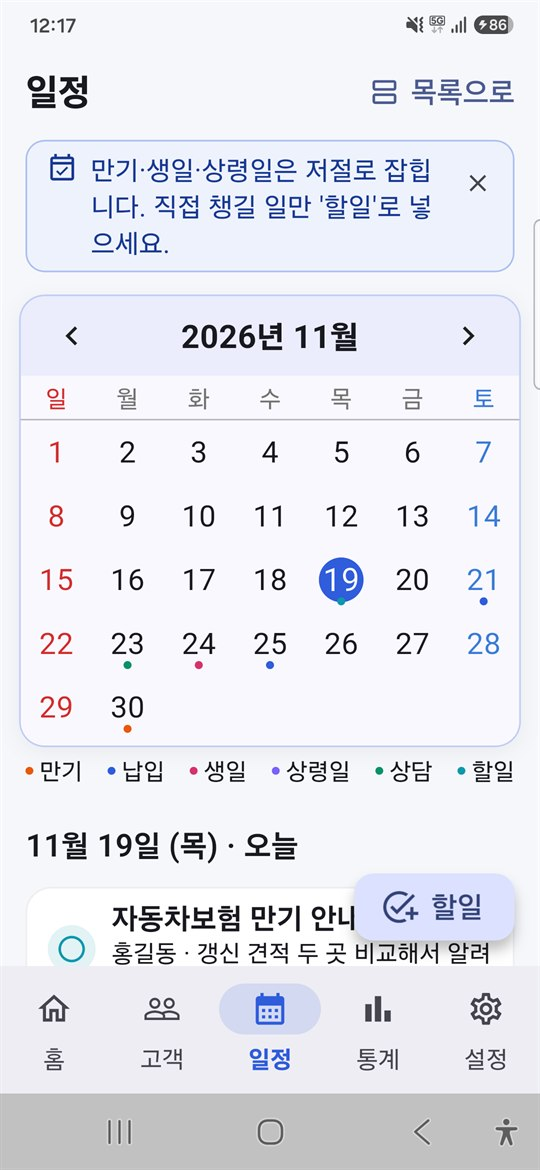
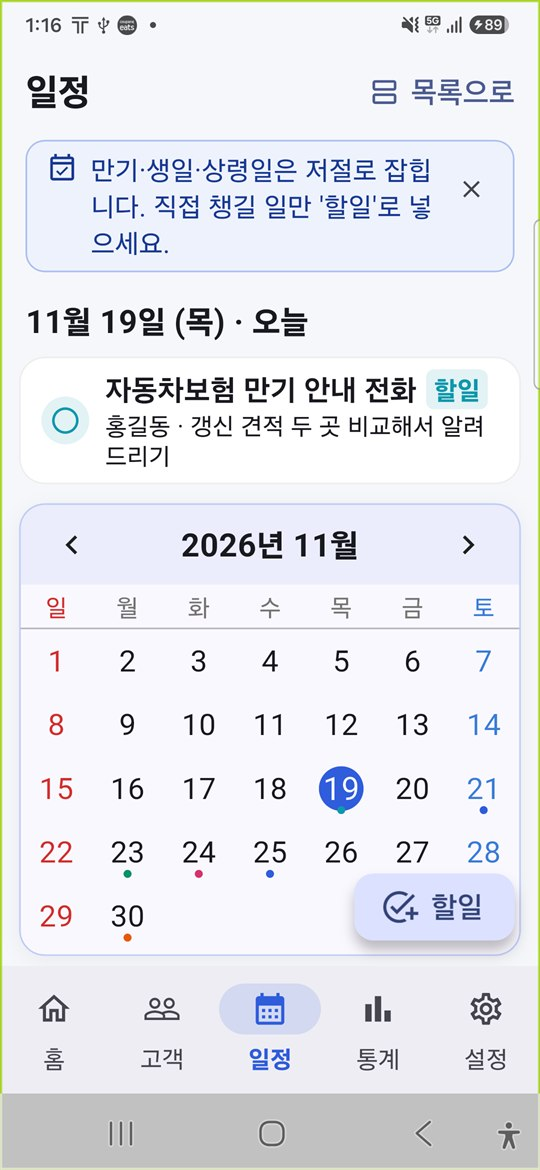
사용설명서를 1.1.19 화면에 맞춘다
- 오늘 브리핑 → 홈 '오늘 할 일' 줄 펼쳐 보기
- 단체문자 화면 → 고객 탭 빠른 칩 + '이 N명에게 문자'
- 카톡 보내기, 통화 후 메모 창, 문구 여덟 개, 보장 시작 일정
- 설정 이름 '데이터 관리' → '백업 · 복원 · 엑셀', 오늘 일정은 달력 위

diff --git a/manual/index.html b/manual/index.html
@@ -286,7 +286,7 @@ td.k { white-space: normal; }   /* 안 접히면 표가 옆으로 넘친다 */
 <h2>목차</h2>
 <ol>
 <li><a href="#sec1"><div><b>처음 시작하기</b><span>화면 구성 · 내 이름 넣기 · 시작하기 안내</span></div></a></li>
-<li><a href="#sec2"><div><b>홈</b><span>오늘 할 일 · 오늘 브리핑</span></div></a></li>
+<li><a href="#sec2"><div><b>홈</b><span>오늘 할 일 · 고객 펼쳐 보기</span></div></a></li>
 <li><a href="#sec3"><div><b>고객 등록</b><span>한 명씩 · 명함·문자로 · 엑셀로 한꺼번에</span></div></a></li>
 <li><a href="#sec4"><div><b>고객 찾기와 고객 화면</b><span>검색 · 조건 검색 · 가족 · 서류</span></div></a></li>
 <li><a href="#sec5"><div><b>계약</b><span>계약 등록 · 증권 사진 · 갱신</span></div></a></li>
@@ -347,7 +347,7 @@ td.k { white-space: normal; }   /* 안 접히면 표가 옆으로 넘친다 */
         직접 넣은 고객은 지워지지 않습니다.</p>
 
       <h3>이 설명서 다시 열기</h3>
-      <p><b>설정 &gt; 도움말 &gt; 사용법</b>, 또는 홈 &lsquo;시작하기&rsquo; 맨 아래
+      <p><b>설정 맨 위 사용법</b>, 또는 홈 &lsquo;시작하기&rsquo; 맨 아래
         <span class="chip">사용법 자세히 보기</span>를 누르세요.
         인터넷이 없어도 열립니다.</p>
       <p>설명서 오른쪽 위 <span class="chip">보내기</span>를 누르면
@@ -387,18 +387,17 @@ td.k { white-space: normal; }   /* 안 접히면 표가 옆으로 넘친다 */
   </div>
 
   <div class="feat">
-    <figure class="shot"><img src="shots/02-briefing.jpg" alt="오늘 브리핑">
-      <figcaption>오늘 브리핑</figcaption></figure>
+    <figure class="shot"><img src="shots/02-home-expand.jpg" alt="오늘 할 일 펼쳐 보기">
+      <figcaption>오늘 할 일 · 고객 펼쳐 보기</figcaption></figure>
     <div>
-      <h3>오늘 브리핑</h3>
-      <p>홈 오른쪽 위 <span class="chip">브리핑</span>을 누르세요.
-        오늘 연락할 고객을 <b>한 사람당 카드 한 장</b>으로 정리해 줍니다.</p>
+      <h3>전화 걸기 전에 한 번 펼쳐 보기</h3>
+      <p>&lsquo;오늘 할 일&rsquo; 줄 오른쪽 <b>&or;</b>를 누르면 그 자리에서 고객 요약이 펼쳐집니다.</p>
       <ul class="dot">
-        <li>왜 연락하는지 (납입·만기·생일·상담)</li>
-        <li>지금 내는 보험료와 마지막 상담 내용</li>
+        <li>유지 중인 계약과 월 보험료</li>
+        <li>마지막 상담 내용</li>
         <li>부족한 보장 — 권유할 거리</li>
       </ul>
-      <div class="tip">전화 돌리기 전에 이 화면만 훑으면 무슨 말을 할지 정리됩니다.</div>
+      <div class="tip">전화 돌리기 전에 펼쳐 훑으면 무슨 말을 할지 정리됩니다.</div>
       <p>계약이 있으면 홈 아래쪽에 <span class="chip">보험사별 장부</span> 입구가 생깁니다(9장).</p>
     </div>
   </div>
@@ -450,7 +449,7 @@ td.k { white-space: normal; }   /* 안 접히면 표가 옆으로 넘친다 */
     <div>
       <h3>쓰던 명단을 엑셀로 한꺼번에</h3>
       <p>고객이 많으면 한 명씩 치지 마세요. 홈 &lsquo;고객 등록하기&rsquo;의
-        <b>쓰던 고객 명단이 있어요 (엑셀)</b>, 또는 <b>설정 &gt; 데이터 관리 &gt;
+        <b>쓰던 고객 명단이 있어요 (엑셀)</b>, 또는 <b>설정 &gt; 백업 · 복원 · 엑셀 &gt;
         기존 고객 자료 반영하기</b>를 누르면 순서 안내가 나옵니다.</p>
       <ol class="steps">
         <li><span class="chip">양식 받기</span>로 빈 엑셀 양식을 받아 PC로 보냅니다.</li>
@@ -510,7 +509,7 @@ td.k { white-space: normal; }   /* 안 접히면 표가 옆으로 넘친다 */
       <ul class="dot">
         <li><b>영업 단계</b> — 가망 · 상담중 · 청약중 · 계약 · 보류.
           가망·상담중·청약중인 고객에게 계약을 넣으면 저절로 &lsquo;계약&rsquo;이 됩니다</li>
-        <li><b>수신동의</b> — 거부한 고객은 단체 문자에서 빠집니다</li>
+        <li><b>수신동의</b> — 거부한 고객은 여러 명에게 보내는 문자에서 빠집니다</li>
       </ul>
 
       <h3>가족 연결</h3>
@@ -635,26 +634,30 @@ td.k { white-space: normal; }   /* 안 접히면 표가 옆으로 넘친다 */
         <li><b>문자 앱으로 보내기</b>를 누르면 휴대폰 문자 앱이 열립니다. 거기서 <b>전송</b>을 누르세요.</li>
       </ol>
       <div class="warn">앱이 직접 보내지 않습니다. <b>문자 앱에서 전송</b>을 눌러야 나갑니다.</div>
-      <p>문자나 전화를 하고 돌아오면 <b>&lsquo;기록을 남길까요?&rsquo;</b>를 묻습니다.
-        남기면 상담 기록에 들어갑니다.</p>
+      <p>문자 화면 아래 <b>카톡으로 보내기</b>를 누르면 같은 내용을 카카오톡으로 보낼 수 있습니다.</p>
+      <p>문자·카톡을 보내고 돌아오면 <b>&lsquo;기록을 남길까요?&rsquo;</b>를 묻습니다.
+        전화를 끊고 돌아오면 <b>&lsquo;통화하셨나요?&rsquo;</b> 창이 떠서 통화 메모와
+        다음 연락 날짜를 바로 적을 수 있습니다. 남기면 상담 기록에 들어갑니다.</p>
     </div>
   </div>
 
   <div class="feat">
-    <figure class="shot"><img src="shots/21-bulk-sms.jpg" alt="단체 문자">
-      <figcaption>단체 문자</figcaption></figure>
+    <figure class="shot"><img src="shots/21-quick-sms.jpg" alt="여러 명에게 문자">
+      <figcaption>고객 탭 · 이번 달 생일</figcaption></figure>
     <div>
-      <h3>여러 명에게 (단체 문자)</h3>
+      <h3>여러 명에게</h3>
       <ol class="steps">
-        <li>고객 탭 맨 위 <span class="chip">단체문자</span>를 누릅니다.</li>
-        <li>기간(이번 주 · 이번 달)과 유형(만기·납입·생일·상령일·상담)을 고릅니다.</li>
-        <li>대상이 나오면 <b>문자 작성</b>을 누릅니다.</li>
+        <li>고객 탭 위의 <span class="chip">이번 주 생일</span> <span class="chip">이번 달 생일</span>
+          <span class="chip">이번 달 만기</span> <span class="chip">이번 달 납입</span> 중 하나를 누릅니다.</li>
+        <li>명단이 걸러지면 <b>이 N명에게 문자</b>를 누릅니다. 맞는 문구(생일 축하·만기 안내·납입 안내)가 채워져 열립니다.</li>
+        <li><b>문자 앱으로 보내기</b>를 누르고 문자 앱에서 <b>전송</b>을 누르세요.</li>
       </ol>
+      <p>다른 조건(영업 단계·보험사·연령대 등)은 <span class="chip">조건</span> &gt; <b>조건 더 보기</b>에서 고릅니다.</p>
       <p>전화번호가 없는 고객과 수신거부 고객은 빠집니다. 만기·납입 안내처럼 계약에 따른
         안내라면 문자 화면에서 수신거부 고객도 넣을 수 있습니다(광고성 문자는 안 됩니다).</p>
 
       <h3>문구를 내 말투로</h3>
-      <p><b>설정 &gt; 문자 문구 관리</b>에서 기본 문구 여섯 개를 고칠 수 있습니다.
+      <p><b>설정 &gt; 문자 문구 관리</b>에서 기본 문구 여덟 개를 고칠 수 있습니다.
         <b>기본값</b>을 누르면 원래대로 돌아갑니다.</p>
     </div>
   </div>
@@ -677,8 +680,9 @@ td.k { white-space: normal; }   /* 안 접히면 표가 옆으로 넘친다 */
         <tr><td class="k">생일 · 상령일</td><td>고객의 생년월일</td></tr>
         <tr><td class="k">상담</td><td>&lsquo;예약&rsquo;으로 적은 상담, 적어 둔 다음 상담일</td></tr>
         <tr><td class="k">할 일</td><td>직접 적은 할 일</td></tr>
+        <tr><td class="k">보장 시작</td><td>암·건강보험의 가입일 (90일·1년 뒤 면책·감액이 끝나는 날)</td></tr>
       </table>
-      <p>달력에서 날짜를 누르면 그날 일정이 아래에 나옵니다.
+      <p>오늘 일정은 달력 <b>위</b>에 먼저 나옵니다. 달력에서 다른 날짜를 누르면 그날 일정이 아래에 나옵니다.
         오른쪽 위 <span class="chip">목록으로</span>를 누르면 날짜별 목록으로 바뀝니다.</p>
 
       <h3>할 일 적기</h3>
@@ -759,7 +763,7 @@ td.k { white-space: normal; }   /* 안 접히면 표가 옆으로 넘친다 */
     <div>
       <h3>백업 — 가장 중요합니다</h3>
       <ol class="steps">
-        <li><b>설정 &gt; 데이터 관리 &gt; 백업 내보내기</b>를 누릅니다.</li>
+        <li><b>설정 &gt; 백업 · 복원 · 엑셀 &gt; 백업 내보내기</b>를 누릅니다.</li>
         <li>비밀번호를 정합니다. <b>힌트</b>를 적어 두면 복원할 때 보여 줍니다.</li>
         <li>만들어진 파일을 <b>내 메일·클라우드·PC</b>에 보관합니다.</li>
       </ol>
@@ -768,7 +772,7 @@ td.k { white-space: normal; }   /* 안 접히면 표가 옆으로 넘친다 */
         꼭 기억해 두세요.</div>
 
       <h3>복원 (휴대폰을 바꿀 때)</h3>
-      <p>새 휴대폰에 앱을 깔고 <b>설정 &gt; 데이터 관리 &gt; 백업 복원</b>에서 파일을 고르고 비밀번호를 넣습니다.</p>
+      <p>새 휴대폰에 앱을 깔고 <b>설정 &gt; 백업 · 복원 · 엑셀 &gt; 백업 복원</b>에서 파일을 고르고 비밀번호를 넣습니다.</p>
       <div class="warn">복원하면 지금 휴대폰의 자료가 <b>백업 내용으로 바뀝니다.</b></div>
     </div>
   </div>
@@ -778,7 +782,7 @@ td.k { white-space: normal; }   /* 안 접히면 표가 옆으로 넘친다 */
       <figcaption>설정 &gt; 앱 잠금</figcaption></figure>
     <div>
       <h3>엑셀로 꺼내고 넣기</h3>
-      <p><b>설정 &gt; 데이터 관리</b>의 <b>엑셀 양식 다운받기 · 엑셀 가져오기 · 엑셀 내보내기</b>를 씁니다.
+      <p><b>설정 &gt; 백업 · 복원 · 엑셀</b>의 <b>엑셀 양식 다운받기 · 엑셀 가져오기 · 엑셀 내보내기</b>를 씁니다.
         PC에서 자료를 보거나 고칠 때 씁니다(사진은 담기지 않습니다).</p>
 
       <h3>앱 잠금</h3>
